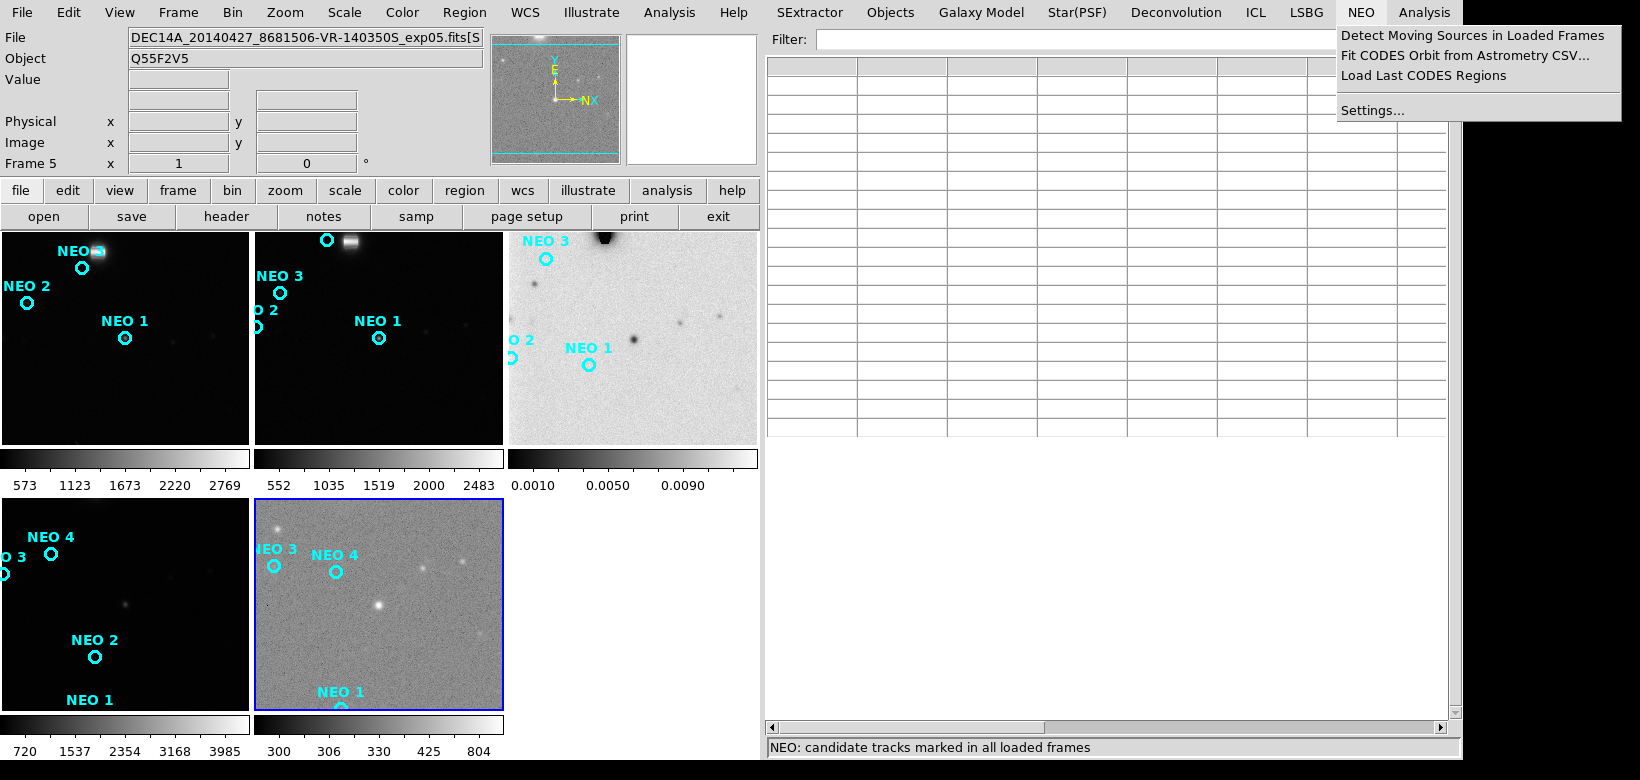
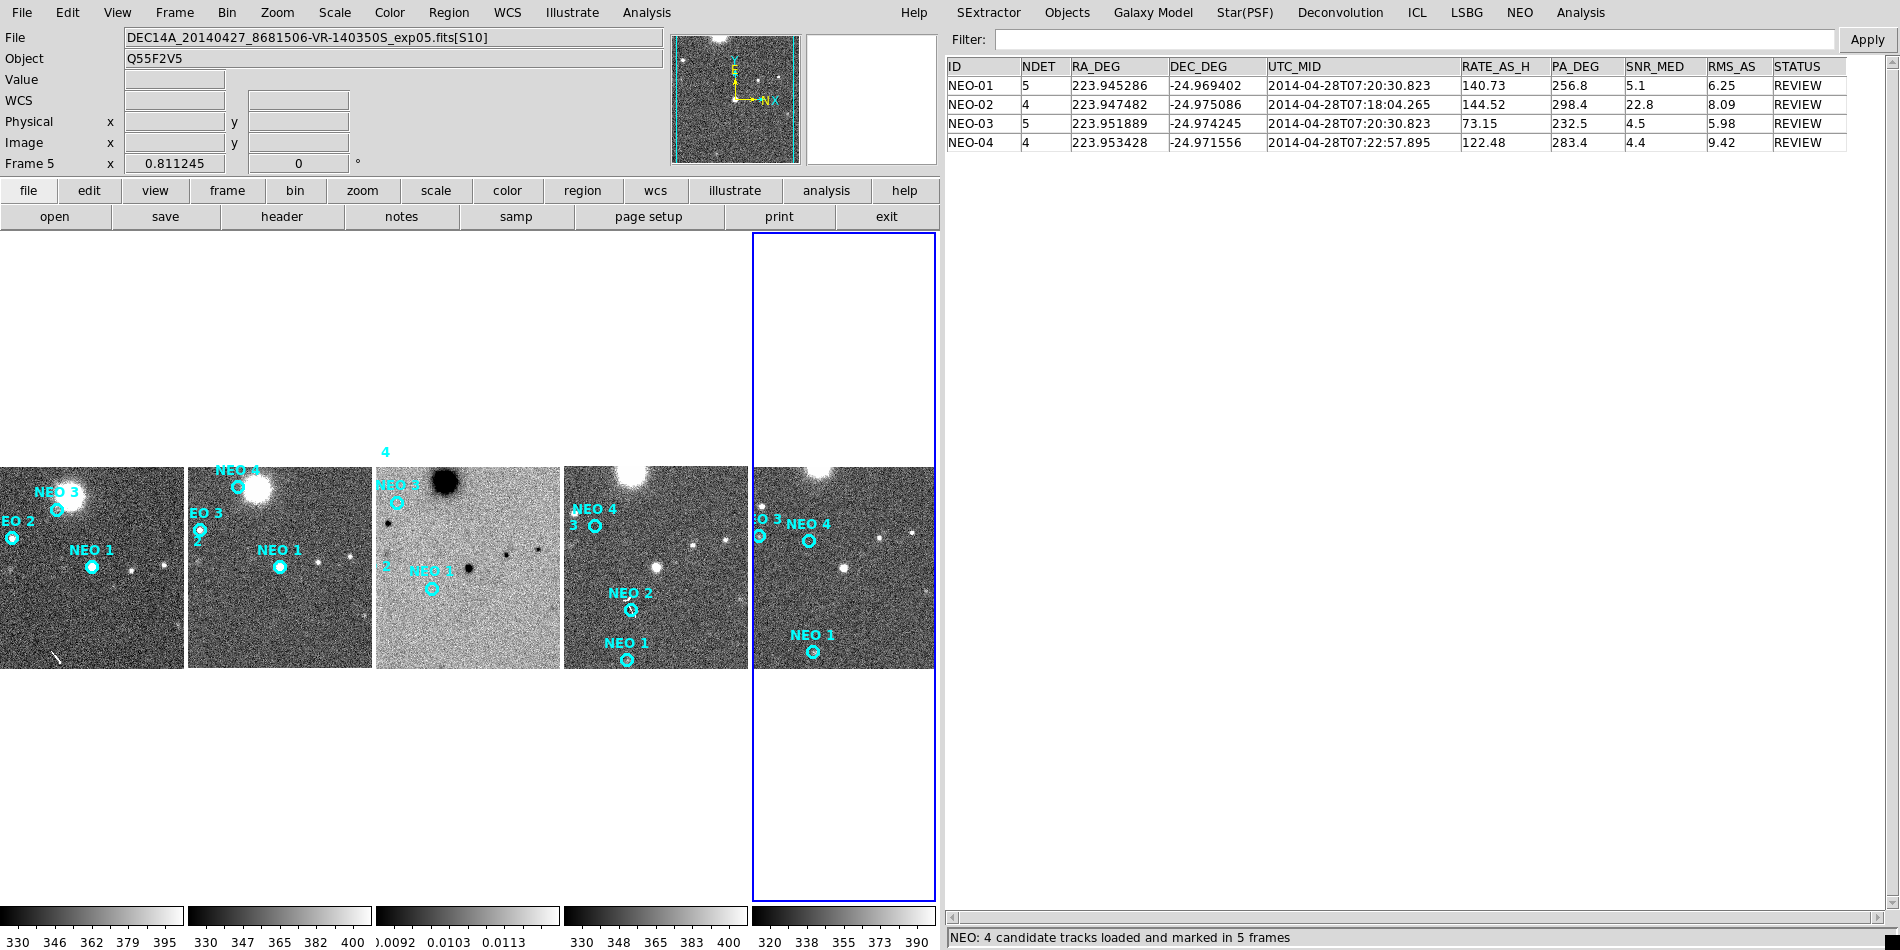
Show NEO candidates in the OGFinder capture

diff --git a/appendix_C_solar_system.tex b/appendix_C_solar_system.tex
@@ -1514,12 +1514,14 @@ astrometry is passed to CODES and OpenOrb.
 \begin{figure}[H]
 \centering
 \includegraphics[width=\textwidth]{appendixC_assets/ogfinder_ds9_neo_runtime.png}
-\caption{Actual OGFinder DS9 runtime capture using five calibrated DECam
-exposures from the DECam Asteroid Database DR2. The NEO menu executed the
-local moving source detector. Cyan circles show four linked candidate
-tracks, with only the matching epoch displayed in each frame. The status
-line records successful association. These marks are candidates for visual
-review and do not by themselves validate an orbit.}
+\caption{Actual OGFinder DS9 runtime capture from five calibrated DECam
+exposures in the DECam Asteroid Database DR2. Cyan circles mark four linked
+candidate tracklets with each frame showing detections at the corresponding
+epoch. The right catalog reports the number of detections, median sky position,
+midpoint time, fitted angular rate, position angle, median signal-to-noise
+ratio and astrometric residual for each tracklet. The REVIEW flag identifies
+candidates that require visual inspection and orbit confirmation. The status
+line records successful association and catalog loading.}
 \label{fig:ds9-ogfinder-interface}
 \end{figure}
 
